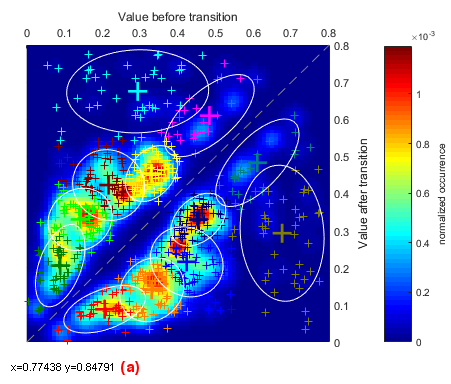
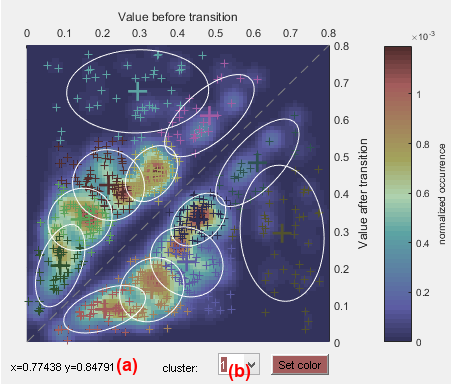
update cluster color settings

diff --git a/docs/transition-analysis/panels/panel-state-configuration.md b/docs/transition-analysis/panels/panel-state-configuration.md
@@ -15,7 +15,7 @@ State configuration is the second panel of module Transition analysis.
 
 Use this panel to determine the optimum number of transition clusters and associated cross-sample variability.
 
-<a class="plain" href="../../assets/images/gui/TA-panel-state-configuration.png"><img src="../../assets/images/gui/TA-panel-state-configuration.png" style="max-width:491px;"></a>
+<a class="plain" href="../../assets/images/gui/TA-panel-state-configuration.png"><img src="../../assets/images/gui/TA-panel-state-configuration.png" style="max-width:437px;"></a>
 
 ## Panel components
 {: .no_toc .text-delta }
@@ -275,7 +275,7 @@ Press
 
 ## Visualization area
 
-Use this interface to visualize the TDP and analysis results.
+Use this interface to visualize the TDP and analysis results or to modify cluster color code.
 
 The axes display two types of plots depending on which stage the transition analysis is at.
 
@@ -302,8 +302,8 @@ When hoovering the axes with the mouse selection tool activated, mouse coordinat
 
 After completing TDP clustering, clustered transition are indicated by cross markers that are colored according to the cluster they belong to.
 
-Cluster colors can be modified in the 
-[Transitions](panel-state-transition-rates.html#transitions) panel.
+Cluster colors can be modified by selecting the cluster index in list **(b)** prior opening the color picker by pressing 
+![Set color](../../assets/images/gui/TA-but-set-color.png "Set color").
 
 When the 
 [Method settings](#method-settings) include the use of GM clustering, the contour of each Gaussian-shaped cluster is plotted as a white solid line.
